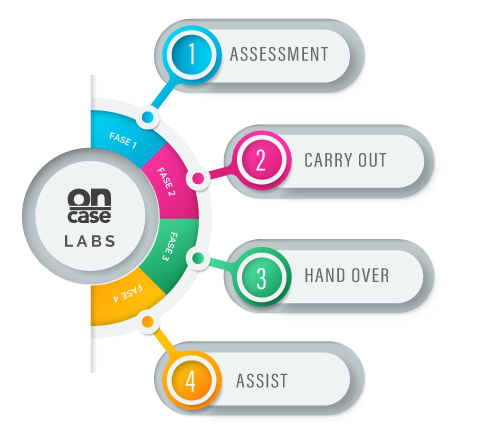
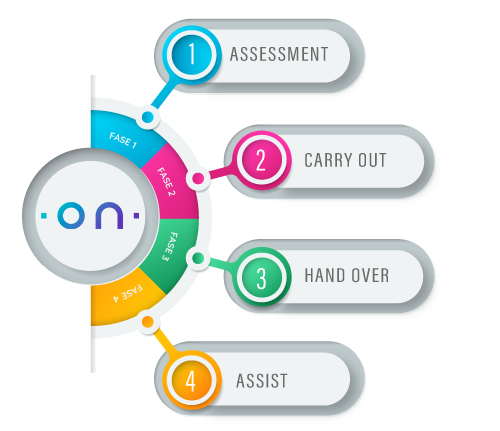
Adequação às soluções
bug fixes

Changed region(s): [[0.06, 0.4223, 0.3, 0.5731]]

diff --git a/components/HomeOne/OurServices.js b/components/HomeOne/OurServices.js
@@ -16,7 +16,7 @@ class OurServices extends Component {
                     </div>
 
                     <div className="row py-5">
-                        <div className="col-12 col-md-3 mb-4 mb-md-0">
+                        {/* <div className="col-12 col-md-3 mb-4 mb-md-0">
                             <div className="mb-2">
                                     <i className="flaticon-big-data"  style={{fontSize:"32px"}}></i>
                             </div>
@@ -30,8 +30,8 @@ class OurServices extends Component {
                                     </a>
                                 </Link>
                             </div>
-                        </div>
-                        <div className="col-12 col-md-3 mb-4 mb-md-0">
+                        </div> */}
+                        <div className="col-12 col-md-6 mb-6 mb-md-0">
                             <div className="mb-2">
                                     <i className="flaticon-data-analytics"  style={{fontSize:"32px"}}></i>
                             </div>
@@ -46,13 +46,13 @@ class OurServices extends Component {
                                 </Link>
                             </div>
                         </div>
-                        <div className="col-12 col-md-3 mb-4 mb-md-0">
+                        <div className="col-12 col-md-6 mb-6 mb-md-0">
                             <div className="mb-2">
                                     <i className="flaticon-chart"  style={{fontSize:"32px"}}></i>
                             </div>
                             <h4>Jornada do Cliente</h4>
                             <div className="small">
-                                <p>Enriqueça a jornada dos seus clientes e receba insights para oferecer outros produtos do seu catálogo.</p>
+                                <p>Aprimore a jornada dos seus clientes e receba insights para aumentar o ticket médio, a satisfação do cliente e diminuir o churn.</p>
                                 <Link href="/inteligencia-artificial">
                                     <a className="weight-500 action-link">
                                         <span>Saiba mais
@@ -61,7 +61,7 @@ class OurServices extends Component {
                                 </Link>
                             </div>
                         </div>
-                        <div className="col-12 col-md-3 mb-4 mb-md-0">
+                        {/* <div className="col-12 col-md-3 mb-4 mb-md-0">
                             <div className="mb-2">
                                     <i className="flaticon-science"  style={{fontSize:"32px"}}></i>
                             </div>
@@ -75,8 +75,8 @@ class OurServices extends Component {
                                     </a>
                                 </Link>
                             </div>
-                        </div>
-                        <div className="col-12 col-md-3 mb-4 mb-md-0">
+                        </div> */}
+                        {/* <div className="col-12 col-md-3 mb-4 mb-md-0">
                             <div className="mb-2">
                                     <i className="flaticon-science"  style={{fontSize:"32px"}}></i>
                             </div>
@@ -90,7 +90,7 @@ class OurServices extends Component {
                                     </a>
                                 </Link>
                             </div>
-                        </div>
+                        </div> */}
                     </div>
                 </div>
             </section>

diff --git a/components/Layouts/Footer.js b/components/Layouts/Footer.js
@@ -29,11 +29,14 @@ class Footer extends Component {
 
                             <div className="col-6 col-lg-3">
                                 <h4 style={{color:"#f8f9fa"}}>Soluções</h4>
-                                <div className="mb-1"><a className="text-light" href="/plataforma"><span>Plataforma</span></a></div>
-                                <div className="mb-1"><a className="text-light" href="/oncase-labs"><span>Cocriação</span></a></div>
-                                <div className="mb-1"><a className="text-light" href="/scora-journey"><span>Jornada do Cliente</span></a></div>
-                                <div className="mb-1"><a className="text-light" href="/scora-acqua"><span>Saneamento</span></a></div>
-                                <div className="mb-1"><a className="text-light" href="/scora-demand"><span>Previsão de Demanda</span></a></div>
+                                {/* <div className="mb-1"><a className="text-light" href="/plataforma"><span>Plataforma</span></a></div> */}
+                                <div className="mb-1"><a className="text-light"><Link href="/oncase-labs"><span>Cocriação</span></Link></a></div>
+                                <div className="mb-1"><a className="text-light"><Link href="/scora-journey"><span>Jornada do Cliente</span></Link></a></div>
+
+                                {/* <div className="mb-1"><a className="text-light" href="/oncase-labs"><span>Cocriação</span></a></div>
+                                <div className="mb-1"><a className="text-light" href="/scora-journey"><span>Jornada do Cliente</span></a></div> */}
+                                {/* <div className="mb-1"><a className="text-light" href="/scora-acqua"><span>Saneamento</span></a></div>
+                                <div className="mb-1"><a className="text-light" href="/scora-demand"><span>Previsão de Demanda</span></a></div> */}
                             </div>
                             {/* <div className="col-6 col-lg-2">
                                 <h4 style={{color:"#f8f9fa"}}>Soluções</h4>
@@ -44,9 +47,12 @@ class Footer extends Component {
                             </div> */}
                             <div className="col-6 col-lg-3">
                                 <h4 style={{color:"#f8f9fa"}}>Tecnologias</h4>
-                                <div className="mb-1"><a className="text-light" href="/cloudera"><span>Cloudera</span></a></div>
+                                <div className="mb-1"><a className="text-light"><Link href="/cloudera"><span>Cloudera</span></Link></a></div>
+                                <div className="mb-1"><a className="text-light"><Link href="/mongodb"><span>MongoDB</span></Link></a></div>
+                                <div className="mb-1"><a className="text-light"><Link href="/pentaho"><span>Pentaho</span></Link></a></div>
+                                {/* <div className="mb-1"><a className="text-light" href="/cloudera"><span>Cloudera</span></a></div>
                                 <div className="mb-1"><a className="text-light" href="/mongodb"><span>MongoDB</span></a></div>
-                                <div className="mb-1"><a className="text-light" href="/Pentaho"><span>Pentaho</span></a></div>
+                                <div className="mb-1"><a className="text-light" href="/Pentaho"><span>Pentaho</span></a></div> */}
                             </div>
                         </div>
                         <div className="row">

diff --git a/components/Layouts/Navbar.js b/components/Layouts/Navbar.js
@@ -63,22 +63,28 @@ class Navbar extends Component {
                                     <ul className="navbar-nav">
  
                                         <li className="nav-item">
-                                            <Link href="/plataforma">
-                                                <a className="nav-link">
-                                                    Plataforma
-                                                </a>
-                                            </Link>
-                                        </li>
- 
-                                        <li className="nav-item">
                                             <Link href="/oncase-labs">
                                                 <a className="nav-link">
                                                     Cocriação
                                                 </a>
                                             </Link>
                                         </li>
-
                                         <li className="nav-item">
+                                            <Link href="/scora-journey">
+                                                <a className="nav-link">
+                                                    Jornada do Cliente
+                                                </a>
+                                            </Link>
+                                        </li>
+                                        <li className="nav-item">
+                                            <Link href="/about-us">
+                                                <a className="nav-link">
+                                                    Sobre Nós
+                                                </a>
+                                            </Link>
+                                        </li>
+
+                                        {/* <li className="nav-item">
                                             <Link href="#">
                                                 <a className="nav-link">
                                                     Produtos <i className="fas fa-chevron-down"></i>
@@ -102,7 +108,7 @@ class Navbar extends Component {
                                                     </Link>
                                                 </li>
                                             </ul>
-                                        </li>
+                                        </li> */}
                                     </ul>
 
                                     <div className="others-options">

diff --git a/components/Solucoes/PentahoContent.js b/components/Solucoes/PentahoContent.js
@@ -125,7 +125,7 @@ class ServiceDetailsContent extends Component {
                             <h4>Os verdadeiros especialistas em Tecnologia Pentaho</h4>
                         </div>
                         <div className="d-flex justify-content-center partner align-items-center" style={{display:"flex !important", maxWidth:"900px", alignItems:"center !important"}}>
-                                <img src={require("../../images/service-details/pentaho12.png")} alt="Pentaho" style={{width:"auto", height:"200px", marginLeft:"0em", marginRight:"5em"}}/>
+                                <img src={require("../../images/service-details/pentaho12.png")} alt="Pentaho" style={{width:"auto", marginLeft:"0em", marginRight:"5em"}}/>
                                 <p>Como <strong>Parceiros e Formadores Oficiais Pentaho em toda a região LATAM</strong>, ajudamos organizações a reduzir o tempo de implementação de uma estratégia Data Analytics, utilizando software de open source, que possibilita a integração de outras tecnologias. <br></br>Em 2011, recebemos a distinção de “Channel Managers Pick for all LATAM” da Pentaho. Com projetos em todo o mundo e casos de sucesso em várias indústrias, a Oncase é reconhecida pelo seu conhecimento tecnológico e “Paixão pela Excelência”.</p>
                         </div>
                     </div>

diff --git a/components/Solucoes/OncaseLabContent.js b/components/Solucoes/OncaseLabContent.js
@@ -19,7 +19,7 @@ class ServiceDetailsContent extends Component {
 
                             <div className="col-lg-6 col-md-12">
                                 <div className="services-details-image">
-                                    <img src={require("../../images/service-details/labs1.png")} alt="Oncase Labs" />
+                                    <img src={require("../../images/service-details/labs1.png")} alt="Cocriação" />
                                 </div>
                             </div>
                         </div>
@@ -27,8 +27,8 @@ class ServiceDetailsContent extends Component {
 
                     <div className="col lg-6">
                         <div className="row align-items-center">
-                        <h4>Como funciona o Oncase Labs?</h4>
-                        <p>O Oncase labs é divido em 4 etapas, que pode durar de 6 meses à 12 meses, de acordo com o nível de maturidade e necessidade da sua empresa.</p>
+                        <h4>Como funciona a cocriação?</h4>
+                        <p>Trabalhamos com a metodologia proprietária ACHA, que é divida em 4 etapas, que pode durar de 6 meses à 12 meses, de acordo com o nível de maturidade e necessidade da sua empresa.</p>
                         </div>
                     </div>
                     <br></br>

diff --git a/pages/oncase-labs.js b/pages/oncase-labs.js
@@ -10,7 +10,7 @@ class ServiceDetails extends Component {
             <React.Fragment>
                 <Navbar />
                 <PageBannerLab
-                    pageTitle="Oncase Labs" 
+                    pageTitle="Cocriação" 
                     breadcrumbTextOne="Home" 
                     breadcrumbTextTwo="Service Details" 
                     breadcrumbUrl="/" 

diff --git a/assets/css/style.css b/assets/css/style.css
@@ -1191,7 +1191,7 @@ Main Banner Two Area CSS
 }
 
 .main-banner-two .container-fluid {
-  max-width: 1920px;
+  max-width: 1140px;
 }
 
 .main-banner-two .banner-image {
